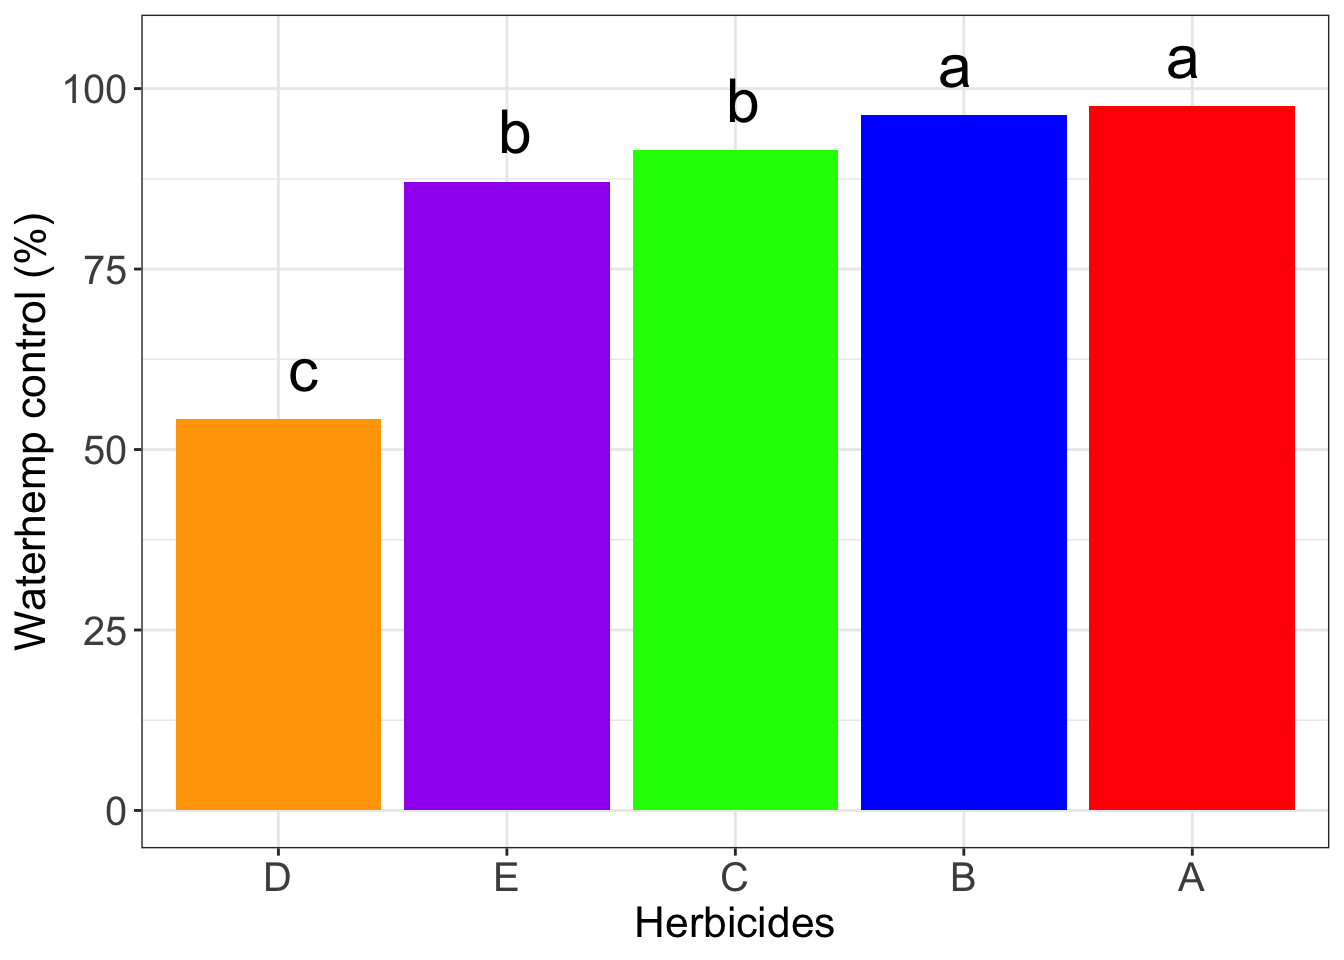
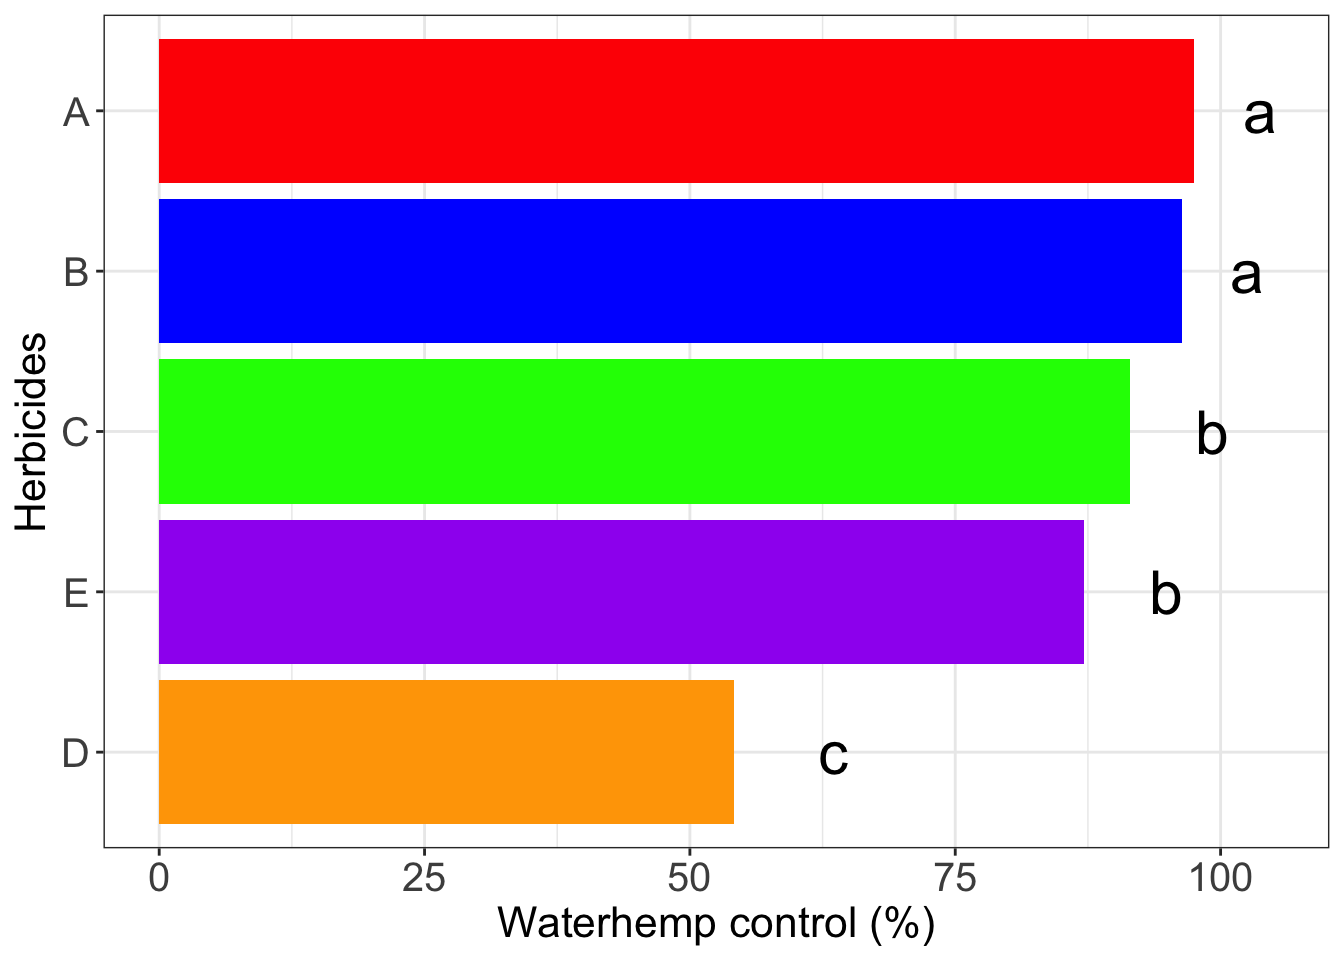
new

diff --git a/content/pt/post/Controle/index.html b/content/pt/post/Controle/index.html
@@ -17,7 +17,8 @@ tags:
 title: 'Análise de Controle de Plantas Daninhas'
 ---
 
-<script src="/rmarkdown-libs/header-attrs/header-attrs.js"></script>
+<link href="/rmarkdown-libs/anchor-sections/anchor-sections.css" rel="stylesheet" />
+<script src="/rmarkdown-libs/anchor-sections/anchor-sections.js"></script>
 <script src="/rmarkdown-libs/kePrint/kePrint.js"></script>
 <link href="/rmarkdown-libs/lightable/lightable.css" rel="stylesheet" />
 
@@ -93,9 +94,9 @@ dado &lt;- read_csv(df_path)</code></pre>
 <blockquote>
 <p>Função Levene</p>
 </blockquote>
-<pre class="r"><code>leveneTest(dado$control,  dado$herbicide)</code></pre>
-<pre><code>## Warning in leveneTest.default(dado$control, dado$herbicide): dado$herbicide
-## coerced to factor.</code></pre>
+<pre class="r"><code>leveneTest(control ~ herbicide, data = dado)</code></pre>
+<pre><code>## Warning in leveneTest.default(y = y, group = group, ...): group coerced to
+## factor.</code></pre>
 <pre><code>## Levene&#39;s Test for Homogeneity of Variance (center = median)
 ##       Df F value Pr(&gt;F)
 ## group  4  0.5109 0.7282
@@ -269,14 +270,16 @@ lsmeans</code></pre>
 <div id="gráfico-de-barras-com-agrupamento-de-letras" class="section level5">
 <h5>Gráfico de barras com agrupamento de letras</h5>
 <p>Se você gosta de apresentar os resultados em gráfico de barras com letras. Execute os codigos abaixo.</p>
-<pre class="r"><code>ggplot(cld, aes(x=reorder(herbicide,response), y=response*100, fill=herbicide, label=.group)) + 
+<pre class="r"><code>ggplot(cld, aes(x=reorder(herbicide,response), 
+                y=response*100, fill=herbicide, label=.group)) + 
   geom_bar(stat=&quot;identity&quot;) + ylim(0,105) +
   scale_fill_manual(values=c(&quot;red&quot;, &quot;blue&quot;, &quot;green&quot;, &quot;orange&quot;, &quot;purple&quot;)) +
   theme_bw() +  labs(y=&quot;Waterhemp control (%)&quot;, x=&quot;Herbicides&quot;) +
   geom_text(nudge_y = 7, size=8) + 
   theme(axis.title = element_text(size=16),
         axis.text = element_text(size=15),
-        legend.position = &quot;none&quot;) </code></pre>
+        legend.position = &quot;none&quot;) +
+  coord_flip()</code></pre>
 <p><img src="/pt/post/Controle/index_files/figure-html/unnamed-chunk-13-1.png" width="672" /></p>
 </div>
 </div>
@@ -293,7 +296,7 @@ lsmeans</code></pre>
 <pre class="r"><code>cld %&gt;%
   kbl() %&gt;%
   kable_classic_2(full_width = F)</code></pre>
-<table class=" lightable-classic-2" style="font-family: &quot;Arial Narrow&quot;, &quot;Source Sans Pro&quot;, sans-serif; width: auto !important; margin-left: auto; margin-right: auto;">
+<table class=" lightable-classic-2" style='font-family: "Arial Narrow", "Source Sans Pro", sans-serif; width: auto !important; margin-left: auto; margin-right: auto;'>
 <thead>
 <tr>
 <th style="text-align:left;">

diff --git a/static/rmarkdown-libs/anchor-sections/anchor-sections.js b/static/rmarkdown-libs/anchor-sections/anchor-sections.js
@@ -1,0 +1,33 @@
+// Anchor sections v1.0 written by Atsushi Yasumoto on Oct 3rd, 2020.
+document.addEventListener('DOMContentLoaded', function() {
+  // Do nothing if AnchorJS is used
+  if (typeof window.anchors === 'object' && anchors.hasOwnProperty('hasAnchorJSLink')) {
+    return;
+  }
+
+  const h = document.querySelectorAll('h1, h2, h3, h4, h5, h6');
+
+  // Do nothing if sections are already anchored
+  if (Array.from(h).some(x => x.classList.contains('hasAnchor'))) {
+    return null;
+  }
+
+  // Use section id when pandoc runs with --section-divs
+  const section_id = function(x) {
+    return ((x.classList.contains('section') || (x.tagName === 'SECTION'))
+            ? x.id : '');
+  };
+
+  // Add anchors
+  h.forEach(function(x) {
+    const id = x.id || section_id(x.parentElement);
+    if (id === '') {
+      return null;
+    }
+    let anchor = document.createElement('a');
+    anchor.href = '#' + id;
+    anchor.classList = ['anchor-section'];
+    x.classList.add('hasAnchor');
+    x.appendChild(anchor);
+  });
+});

diff --git a/static/rmarkdown-libs/anchor-sections/anchor-sections.css b/static/rmarkdown-libs/anchor-sections/anchor-sections.css
@@ -1,0 +1,4 @@
+/* Styles for section anchors */
+a.anchor-section {margin-left: 10px; visibility: hidden; color: inherit;}
+a.anchor-section::before {content: '#';}
+.hasAnchor:hover a.anchor-section {visibility: visible;}
